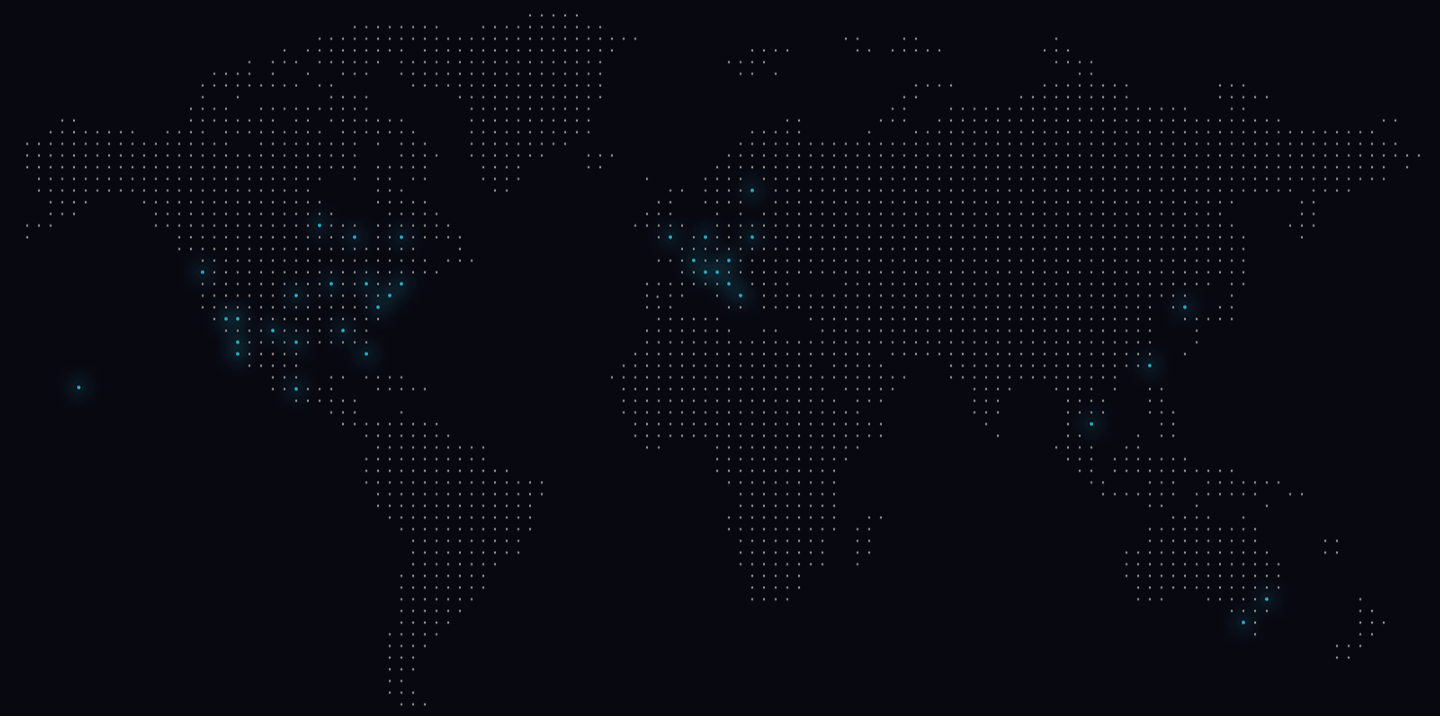
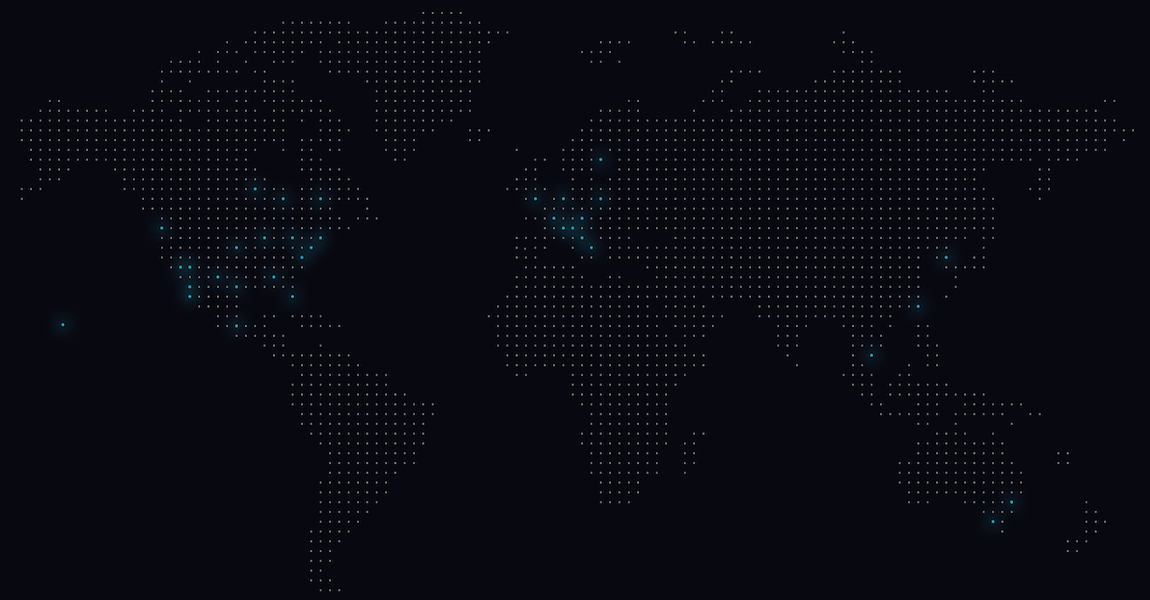
Добавление шестого блока со стилями

diff --git a/src/css/style.css b/src/css/style.css
@@ -1,1 +1,1 @@
-.toptitle{width:115px;height:27px;margin:10px auto;margin-bottom:25px;padding:8px 0;color:#fff;font-size:11px;font-weight:400;line-height:11px;text-align:center;text-transform:uppercase;background-color:black}.title{margin-bottom:10px;color:#222;font-size:38px;font-weight:700;line-height:48px;text-align:center;font-style:normal;text-transform:uppercase}.subtitle{color:#000;text-align:center;font-size:18px;font-style:normal;font-weight:400;line-height:21px}*{font-family:"Roboto", sans-serif;box-sizing:border-box}*__column-2{max-width:500px}.grid{position:fixed;top:0;right:0;bottom:0;left:0;z-index:-1;text-align:center}.main__page{margin-bottom:20px}.header{position:fixed;z-index:5;width:100%}.header__list{display:flex;justify-content:space-between;list-style-type:none;padding:15px 50px}.header__list li{padding:0 20px;border-right:2px dotted #000}.header__link{color:white;font-size:16px;transition:all .25s ease-in-out 0s}.header__link:hover{color:royalblue;text-decoration:none}.top__header{width:100%;height:53px;background-color:#212121}.container{max-width:1140px;padding:0 25px}.subheader{position:absolute;width:100%;height:87px;background-color:rgba(0,0,0,0.6)}.subheader .subheader__logo{display:block;max-width:100%;margin-top:16px}.subheader__call{display:block;margin-top:-5px;color:#fff;font-size:21px;font-weight:400;text-align:right;line-height:12px}.subheader__call-btn{margin-top:15px;margin-left:22px;padding:0 13px;border:none;border-radius:4px;background:linear-gradient(0deg, #1EACC7 0%, #4CE2FF 100%);color:#fff;font-size:14px;line-height:46px;text-transform:uppercase}.text__logo{margin-top:4px;color:#fff;font-size:13px;font-style:normal;font-weight:100;opacity:0.6}.text__call{display:block;color:#fff;text-align:right;font-size:13px;font-style:normal;font-weight:300;opacity:0.6;margin-top:13px}.col-md-2{padding:0}.promo{color:#fff;min-height:800px;background:url("../img/uber_bg.png")}.promo__content{text-align:center;margin-top:200px}.promo__header{font-size:52px;font-weight:900;text-transform:uppercase;margin:0;padding:0}.promo__subheader{padding:0 0 10px 0;font-size:31px;font-weight:700;line-height:48px;text-transform:uppercase}.promo__text{font-size:18px;font-weight:200;line-height:24px}.promo__btn{color:#fff;text-align:center;font-size:16px;line-height:63px;text-transform:uppercase;border:none;border-radius:4px;background:linear-gradient(0deg, #1EACC7 0%, #4CE2FF 100%);margin:100px 0 0 0;padding:0 50px}.advantage{display:flex}.advantage__column-2{padding-left:50px;max-width:500px}.advantage__block{display:flex;margin:auto 0;height:150px;margin-bottom:40px}.advantage__img{margin:auto 0}.advantage__content{width:370px;margin:auto 0;margin-left:30px}.advantage__title{color:#1EACC7;font-size:17px;font-style:normal;font-weight:400;line-height:21px}.advantage__text{color:#202020;font-size:15px;font-style:normal;font-weight:300;line-height:21px}.mobile{background:url("../img/mobile_bg.png") center center/cover no-repeat;padding:45px 0}.mobile__content .mobile__content-block-1{background:url("../img/mobile_cards/card-1.png") center center/cover no-repeat}.mobile__content .mobile__content-block-2{background:url("../img/mobile_cards/card-2.png") center center/cover no-repeat}.mobile__content .mobile__content-block-3{background:url("../img/mobile_cards/card-3.png") center center/cover no-repeat}.mobile__content .mobile__content-block-4{background:url("../img/mobile_cards/card-4.png") center center/cover no-repeat}.mobile__content .mobile__content-block-5{background:url("../img/mobile_cards/card-5.png") center center/cover no-repeat}.mobile__content .mobile__content-block-6{background:url("../img/mobile_cards/card-6.png") center center/cover no-repeat}.mobile__content .mobile__content-block{width:320px;height:280px;margin:0 auto;margin-bottom:20px;padding:92px 15px 0px 15px;position:relative}.mobile__content .mobile__content-block .mobile__content-text{color:#fff;text-align:center;font-size:24px;font-style:normal;font-weight:400;line-height:31px;text-transform:uppercase}.mobile__content .mobile__content-block .mobile__content-btn{cursor:pointer;display:inline-block;position:absolute;bottom:35px;left:50%;height:25px;width:25px;background-color:black;border-radius:100%;transform:translateX(-50%)}.mobile__content .mobile__content-block .mobile__content-btn::after{content:'';width:50%;height:2px;display:block;margin-top:50%;margin-left:25%;transform:translateY(-50%);background-color:#1EACC7}.mobile__content .mobile__content-block .mobile__content-btn::before{content:'';position:absolute;width:2px;height:50%;display:block;margin-top:25%;margin-left:50%;transform:translateX(-50%);background-color:#1EACC7}.chose{padding:45px 0 150px 0;width:100%;height:100%;background:#000 url("../img/mobile_bg.png") 0px 500px no-repeat}.chose .toptitle{background-color:#fff;color:#000}.chose .title,.chose .subtitle{color:#fff}.chose .img__car{text-align:center;padding-top:45px}.chose .subtext_car{text-align:center;font-size:17px;font-weight:300;line-height:24px}.condition{padding:25px 0 75px 0}.condition .lists{display:flex;justify-content:space-between;font-weight:100}.condition .lists .list_1,.condition .lists .list_2{list-style:none}.condition .lists .list_1 .title__list-blue,.condition .lists .list_2 .title__list-blue{color:#1EACC7;margin-bottom:10px}.condition .lists .list_1 .list__item,.condition .lists .list_2 .list__item{position:relative;padding:3.5px 0;margin-left:45px}.condition .lists .list_1 .list__item::before,.condition .lists .list_2 .list__item::before{content:url("../icons/сheck_mark_done-blue.png");position:absolute;left:-30px;top:4px}.condition .lists .list_3,.condition .lists .list_4{list-style:none}.condition .lists .list_3 .title__list-red,.condition .lists .list_4 .title__list-red{color:#f66;margin-bottom:20px}.condition .lists .list_3 .list__item,.condition .lists .list_4 .list__item{position:relative;padding:3.5px 0;margin-left:45px}.condition .lists .list_3 .list__item::before,.condition .lists .list_4 .list__item::before{content:url("../icons/сheck_mark_done-red.png");position:absolute;left:-30px;top:4px}
+.toptitle{width:115px;height:27px;margin:10px auto;margin-bottom:25px;padding:8px 0;color:#fff;font-size:11px;font-weight:400;line-height:11px;text-align:center;text-transform:uppercase;background-color:black}.title{margin-bottom:10px;color:#222;font-size:38px;font-weight:700;line-height:48px;text-align:center;font-style:normal;text-transform:uppercase}.subtitle{color:#000;text-align:center;font-size:18px;font-style:normal;font-weight:400;line-height:21px}*{font-family:"Roboto", sans-serif;box-sizing:border-box}*__column-2{max-width:500px}.grid{position:fixed;top:0;right:0;bottom:0;left:0;z-index:-1;text-align:center}.main__page{margin-bottom:20px}.header{position:fixed;z-index:5;width:100%}.header__list{display:flex;justify-content:space-between;list-style-type:none;padding:15px 50px}.header__list li{padding:0 20px;border-right:2px dotted #000}.header__link{color:white;font-size:16px;transition:all .25s ease-in-out 0s}.header__link:hover{color:royalblue;text-decoration:none}.top__header{width:100%;height:53px;background-color:#212121}.container{max-width:1140px;padding:0 25px}.subheader{position:absolute;width:100%;height:87px;background-color:rgba(0,0,0,0.6)}.subheader .subheader__logo{display:block;max-width:100%;margin-top:16px}.subheader__call{display:block;margin-top:-5px;color:#fff;font-size:21px;font-weight:400;text-align:right;line-height:12px}.subheader__call-btn{margin-top:15px;margin-left:22px;padding:0 13px;border:none;border-radius:4px;background:linear-gradient(0deg, #1EACC7 0%, #4CE2FF 100%);color:#fff;font-size:14px;line-height:46px;text-transform:uppercase}.text__logo{margin-top:4px;color:#fff;font-size:13px;font-style:normal;font-weight:100;opacity:0.6}.text__call{display:block;color:#fff;text-align:right;font-size:13px;font-style:normal;font-weight:300;opacity:0.6;margin-top:13px}.col-md-2{padding:0}.promo{color:#fff;min-height:800px;background:url("../img/uber_bg.png")}.promo__content{text-align:center;margin-top:200px}.promo__header{font-size:52px;font-weight:900;text-transform:uppercase;margin:0;padding:0}.promo__subheader{padding:0 0 10px 0;font-size:31px;font-weight:700;line-height:48px;text-transform:uppercase}.promo__text{font-size:18px;font-weight:200;line-height:24px}.promo__btn{color:#fff;text-align:center;font-size:16px;line-height:63px;text-transform:uppercase;border:none;border-radius:4px;background:linear-gradient(0deg, #1EACC7 0%, #4CE2FF 100%);margin:100px 0 0 0;padding:0 50px}.advantage{display:flex}.advantage__column-2{padding-left:50px;max-width:500px}.advantage__block{display:flex;margin:auto 0;height:150px;margin-bottom:40px}.advantage__img{margin:auto 0}.advantage__content{width:370px;margin:auto 0;margin-left:30px}.advantage__title{color:#1EACC7;font-size:17px;font-style:normal;font-weight:400;line-height:21px}.advantage__text{color:#202020;font-size:15px;font-style:normal;font-weight:300;line-height:21px}.mobile{background:url("../img/mobile_bg.png") center center/cover no-repeat;padding:45px 0}.mobile__content .mobile__content-block-1{background:url("../img/mobile_cards/card-1.png") center center/cover no-repeat}.mobile__content .mobile__content-block-2{background:url("../img/mobile_cards/card-2.png") center center/cover no-repeat}.mobile__content .mobile__content-block-3{background:url("../img/mobile_cards/card-3.png") center center/cover no-repeat}.mobile__content .mobile__content-block-4{background:url("../img/mobile_cards/card-4.png") center center/cover no-repeat}.mobile__content .mobile__content-block-5{background:url("../img/mobile_cards/card-5.png") center center/cover no-repeat}.mobile__content .mobile__content-block-6{background:url("../img/mobile_cards/card-6.png") center center/cover no-repeat}.mobile__content .mobile__content-block{width:320px;height:280px;margin:0 auto;margin-bottom:20px;padding:92px 15px 0px 15px;position:relative}.mobile__content .mobile__content-block .mobile__content-text{color:#fff;text-align:center;font-size:24px;font-style:normal;font-weight:400;line-height:31px;text-transform:uppercase}.mobile__content .mobile__content-block .mobile__content-btn{cursor:pointer;display:inline-block;position:absolute;bottom:35px;left:50%;height:25px;width:25px;background-color:black;border-radius:100%;transform:translateX(-50%)}.mobile__content .mobile__content-block .mobile__content-btn::after{content:'';width:50%;height:2px;display:block;margin-top:50%;margin-left:25%;transform:translateY(-50%);background-color:#1EACC7}.mobile__content .mobile__content-block .mobile__content-btn::before{content:'';position:absolute;width:2px;height:50%;display:block;margin-top:25%;margin-left:50%;transform:translateX(-50%);background-color:#1EACC7}.chose{padding:45px 0 150px 0;width:100%;height:100%;background:#000 url("../img/mobile_bg.png") 0px 500px no-repeat}.chose .toptitle{background-color:#fff;color:#000}.chose .title,.chose .subtitle{color:#fff}.chose .img__car{text-align:center;padding-top:45px}.chose .subtext_car{text-align:center;font-size:17px;font-weight:300;line-height:24px}.condition{padding:25px 0 75px 0}.condition .lists{display:flex;justify-content:space-between;font-weight:100}.condition .lists .list_1,.condition .lists .list_2{list-style:none}.condition .lists .list_1 .title__list-blue,.condition .lists .list_2 .title__list-blue{color:#1EACC7;margin-bottom:10px}.condition .lists .list_1 .list__item,.condition .lists .list_2 .list__item{position:relative;padding:3.5px 0;margin-left:45px}.condition .lists .list_1 .list__item::before,.condition .lists .list_2 .list__item::before{content:url("../icons/сheck_mark_done-blue.png");position:absolute;left:-30px;top:4px}.condition .lists .list_3,.condition .lists .list_4{list-style:none}.condition .lists .list_3 .title__list-red,.condition .lists .list_4 .title__list-red{color:#f66;margin-bottom:20px}.condition .lists .list_3 .list__item,.condition .lists .list_4 .list__item{position:relative;padding:3.5px 0;margin-left:45px}.condition .lists .list_3 .list__item::before,.condition .lists .list_4 .list__item::before{content:url("../icons/сheck_mark_done-red.png");position:absolute;left:-30px;top:4px}.world{background-color:#020208}.world .container{background-image:url("../img/world_bg.png");padding:45px 0 0px 0}.world .container .content{height:550px}.world .container .content .toptitle{background-color:#fff;color:#000}.world .container .content .title,.world .container .content .subtitle{color:#fff}.world .container .content .world__subtext{color:#1EACC7;text-transform:uppercase;text-align:center;padding-top:340px;font-size:15px}

diff --git a/src/sass/style.sass b/src/sass/style.sass
@@ -5,7 +5,7 @@ $color4: #222222
 $color5: #1EACC7
 $color6: #202020
 $color7: #FF6666
-$color8: #080816
+$color8: #020208
 
 
 @mixin toptitle__style
@@ -345,3 +345,25 @@ $color8: #080816
 					position: absolute
 					left: -30px
 					top: 4px
+
+.world
+	background-color: $color8
+	
+
+	.container 
+		background-image: url('../img/world_bg.png') 
+		padding: 45px 0 0px 0
+		.content
+			height: 550px
+			.toptitle
+				background-color: $color3
+				color: $color2
+			.title, .subtitle
+				color: $color3
+			.world__subtext
+				color: $color5
+				text-transform: uppercase
+				text-align: center
+				padding-top: 340px
+				font-size: 15px
+			

diff --git a/index.html b/index.html
@@ -303,6 +303,17 @@
             </div>
         </div>
     </section>
+
+    <section class="world">
+        <div class="container">
+            <div class="content">
+                <p class="toptitle">города</p>
+                <h1 class="title">По всему миру</h1>
+                <p class="subtitle">Мы в вашем городе и по всему миру</p>
+                <p class="world__subtext">посмореть все города</p>
+            </div>
+        </div>
+    </section>
 </body>
 
 </html>
